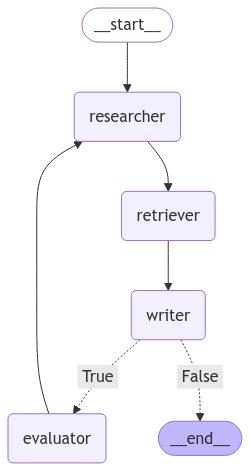
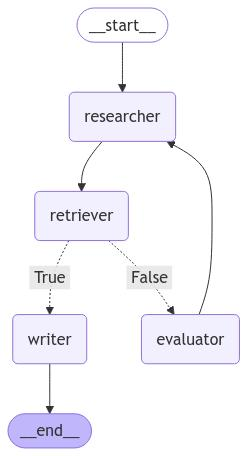
Moved conditional routing from retriever to evaluator when no papers found

diff --git a/simple_system.py b/simple_system.py
@@ -24,7 +24,6 @@ QDRANT_COLLECTION = os.getenv('QDRANT_COLLECTION','Gruppo1')
 
 class State(TypedDict):
     messages: Annotated[list, add_messages]
-    papers_found: bool
 
 def show_graph(graph: StateGraph):
     try:
@@ -54,11 +53,13 @@ else:
     llm = ChatOllama(model = "llama3.2:3b", temperature = 0.8, num_predict = 2048, num_ctx=131072,base_url="http://192.168.1.24:11434")
 
 
-def should_rewrite_query(state: State):
+def has_papers(state: State):
     """
-    Determines whether to route to evaluator based on if papers were found
+    Returns True if papers were found in the retrieval, False otherwise
     """
-    return not state["papers_found"]
+    messages = state["messages"]
+    has_content = len(messages[-1].content) > 0
+    return has_content
 
 
 ## This is all a mess of str concatenations - Thanks python 3.9!
@@ -145,10 +146,6 @@ def writer(state: State):
     question = messages[0].content
     docs = messages[-1].content
 
-    # No papers found
-    if len(docs) == 0:
-        return {"messages": messages, "papers_found": False}
-
     metadata = [json.loads(doc) for doc in (docs.split('\n\n'))]
 
     tokens = 0
@@ -173,7 +170,7 @@ def writer(state: State):
 
     response.content += '\n\n---\n### REFERENCES\n\n' + references
 
-    return {"messages": [response], "papers_found": True}
+    return {"messages": [response]}
 
 
 def get_graph():
@@ -186,18 +183,16 @@ def get_graph():
 
     graph_builder.add_edge(START, "researcher")
     graph_builder.add_edge("researcher", "retriever")
-    graph_builder.add_edge("retriever", "writer")
-
     graph_builder.add_conditional_edges(
-        "writer",
-        should_rewrite_query,
+        "retriever",
+        has_papers,
         {
-            True: "evaluator",
-            False: END
+            True: "writer",
+            False: "evaluator"
         }
     )
-
     graph_builder.add_edge("evaluator", "researcher")
+    graph_builder.add_edge("writer", END)
 
     memory = MemorySaver()
 
